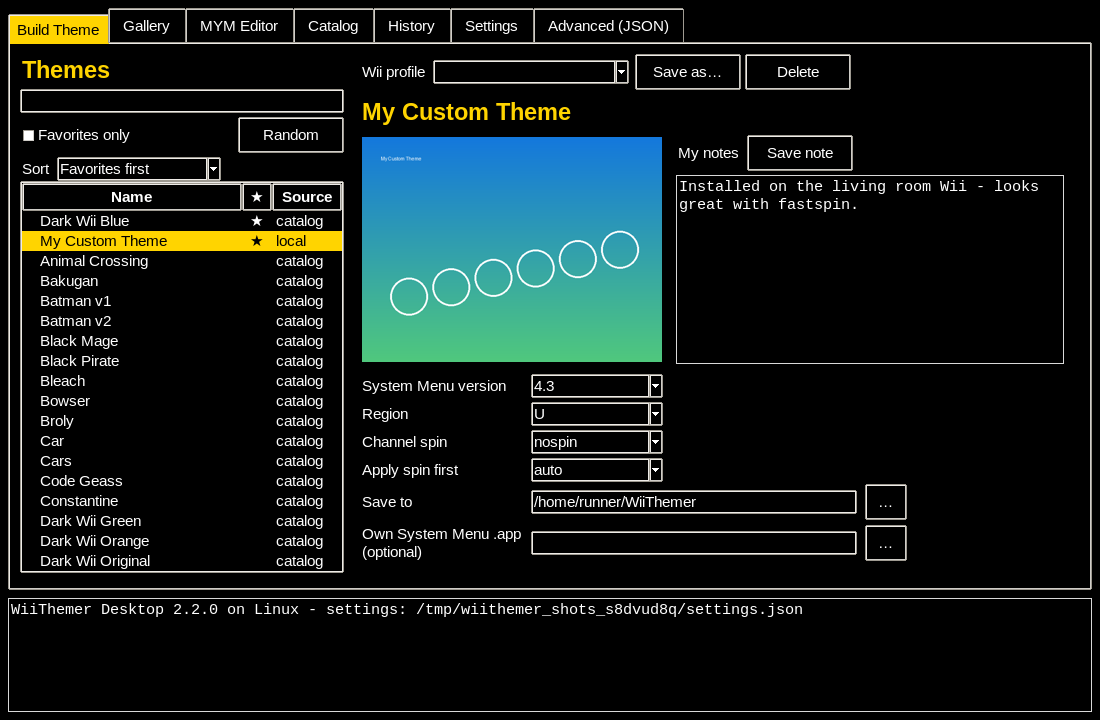
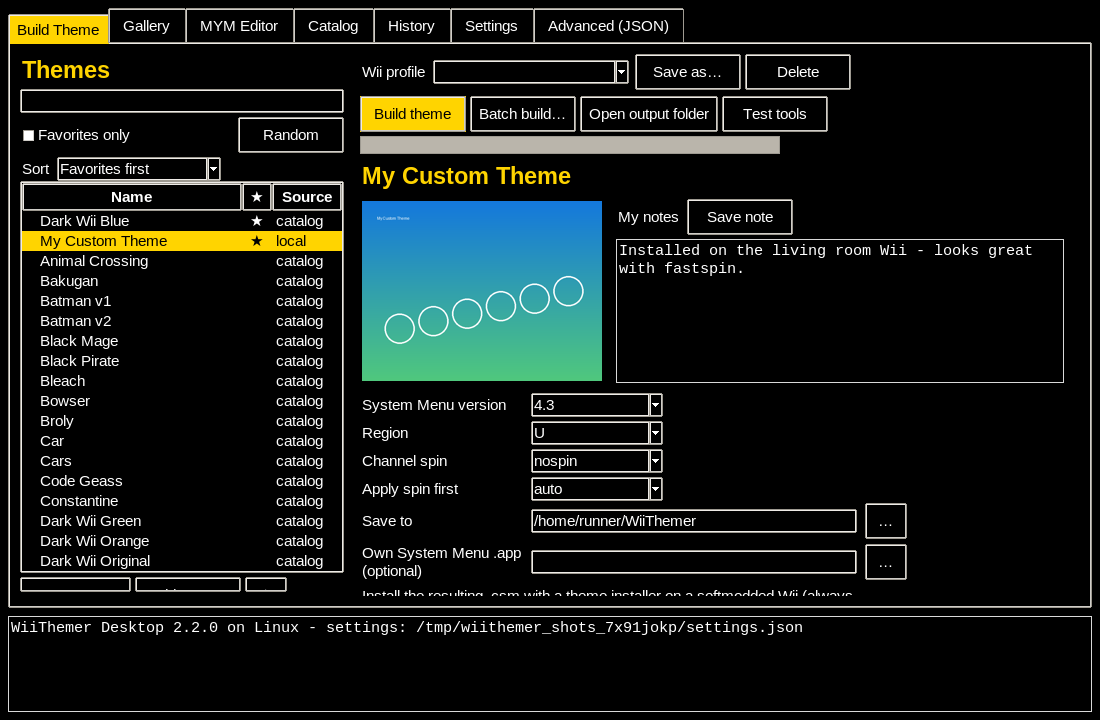
Keep theme list buttons visible; layout self-test covers them

Changed region(s): [[0.0, 0.1222, 1.0, 0.8861], [0.8964, 0.2444, 0.9582, 0.275]]

diff --git a/app/wiithemer_desktop.py b/app/wiithemer_desktop.py
@@ -792,11 +792,13 @@ class App(tk.Tk):
         self.theme_tree.column("#0", width=220)
         self.theme_tree.column("fav", width=30, anchor="center")
         self.theme_tree.column("src", width=70)
-        self.theme_tree.pack(fill="y", expand=True)
+        self.theme_tree.pack(fill="both", expand=True)
         self.theme_tree.bind("<<TreeviewSelect>>", lambda e: self.on_theme_select())
         row = ttk.Frame(left)
-        row.pack(fill="x", pady=4)
-        ttk.Button(row, text="Open .mym…", command=self.add_local_theme).pack(side="left")
+        # Anchored to the bottom (packed before the list) so the list shrinks instead of hiding these.
+        row.pack(side="bottom", fill="x", pady=4, before=self.theme_tree)
+        self.open_mym_button = ttk.Button(row, text="Open .mym…", command=self.add_local_theme)
+        self.open_mym_button.pack(side="left")
         ttk.Button(row, text="Add URL…", command=self.add_url_theme).pack(side="left", padx=4)
         ttk.Button(row, text="★", width=3, command=self.toggle_favorite).pack(side="left")
 
@@ -1883,6 +1885,7 @@ def selftest():
     tab_bottom = app.nb.winfo_rooty() + app.nb.winfo_height()
     window_bottom = app.winfo_rooty() + app.winfo_height()
     for widget, limit in ((app.build_button, tab_bottom), (app.base_entry, tab_bottom),
+                          (app.open_mym_button, tab_bottom),
                           (app.log_box, window_bottom)):
         bottom = widget.winfo_rooty() + widget.winfo_height()
         assert widget.winfo_ismapped() and bottom <= limit, (str(widget), bottom, limit)
